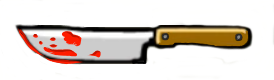
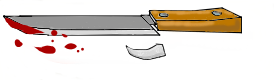
все

diff --git a/init_project.py b/init_project.py
@@ -78,8 +78,8 @@ inventory = Inventory(screen)
 parameters1 = {
     'name': 'music',
     'images': ['key.png'],
-    'x': 400,
-    'y': 200,
+    'x': -400,
+    'y': -200,
     'inventory': inventory,
     'all_sprites': all_sprites2,
     'ind': 55
@@ -111,7 +111,7 @@ door2 = AnimatedButton(['door_number2.png'],
                        700, 310, print, None, True, 6)
 door1 = AnimatedButton(['door_number2.png'],
                        1150, 310, print, None, True, 5)
-knife = AnimatedButton(['knife2.png'],
+knife = AnimatedButton(['knigh3.png'],
                        450, 750, print, None)
 
 end = AnimatedButton(['экран.png'], 0, 0, print, 'button_sound.ogg', True, 17)

diff --git a/AllClasses.py b/AllClasses.py
@@ -556,7 +556,7 @@ class Safe(Sprite):
                       'cейф_пароль_4.png', 'сейф_окрыт.png', 'сейф_открытый.png']
         self.buttons = buttons
         self.images = images
-        self.code = [1, 2, 3, 4]
+        self.code = [5, 4, 1, 9]
         self.current_code = []
         self.safe = safe
         self.can = True
